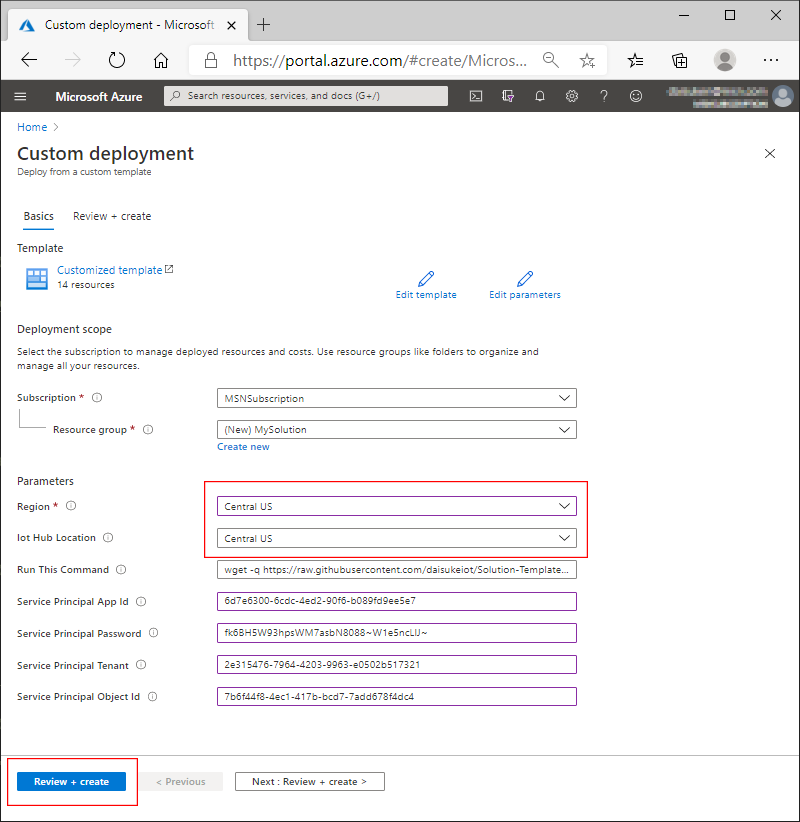
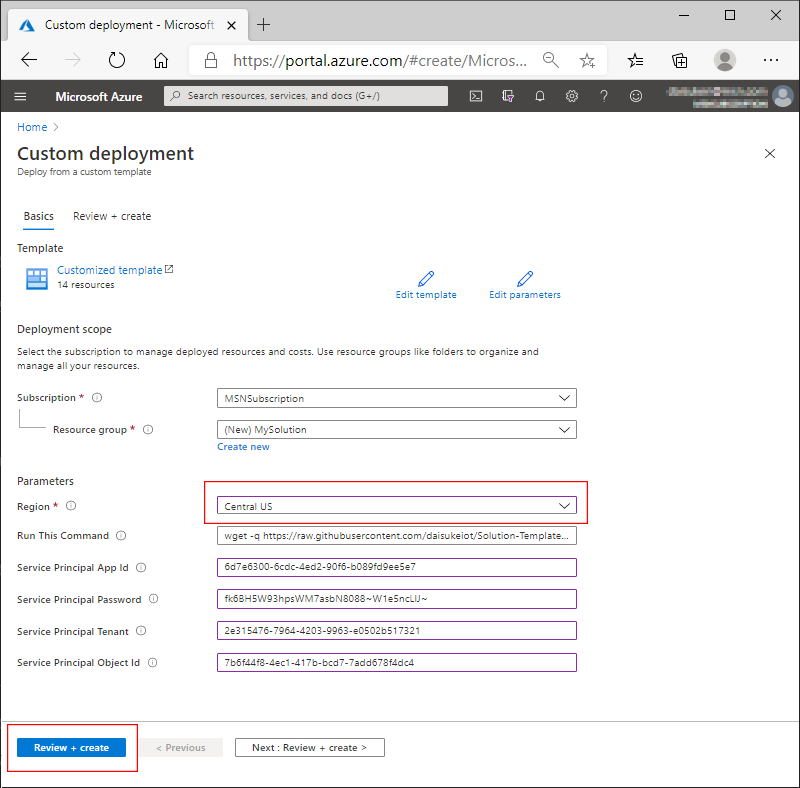
Updating instruction (IoT Plug and Play GA) (#23)

diff --git a/Deploy/Deployment.md b/Deploy/Deployment.md
@@ -91,12 +91,7 @@ Copy & paste **Service Principal App Id**, **Service Principal Password**, **Ser
 
     ![Deployment 07](media/Deployment-07.png)
 
-1. Select **Region** and **IoT Hub Location**, then click **Review + create**  
-
-    > [!IMPORTANT]  
-    > As of 9/11/2020, the solution accelerator uses new IoT Plug and Play features.  
-    > IoT Plug and Play is enabled in these regions. IoT Plug and Play will be enabled in all regions in the end of September 2020.
-    > Please select **Central US**, **Japan East**, or **North Europe**
+1. Select **Region** , then click **Review + create**  
 
     ![Deployment 08](media/Deployment-08.png)
 
